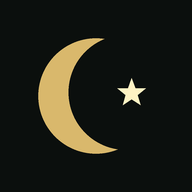
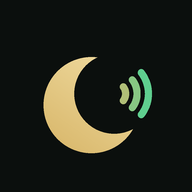
Add files via upload

Changed region(s): [[0.1875, 0.1875, 0.6875, 0.8125], [0.5938, 0.3438, 0.8125, 0.625], [0.25, 0.6562, 0.4375, 0.8125]]

diff --git a/inapp.js b/inapp.js
@@ -1,0 +1,219 @@
+/* =====================================================================
+   inapp.js — كل حاجة بتفتح جوه التطبيق (من غير ما تخرج لكروم/يوتيوب)
+   ===================================================================== */
+
+/* ---------- ١) البيانات: ضيف هنا بس ---------- */
+window.INAPP = {
+  /* روابط مباشرة لدروس ملهاش رابط (بتتشغل جوه التطبيق فورًا).
+     المفتاح = عنوان الدرس زي ما هو في الموقع، والقيمة = رابط يوتيوب (watch / youtu.be / shorts / playlist) */
+  links: {
+    // 'رقائق — إياد قنيبي': 'https://www.youtube.com/watch?v=XXXXXXXXXXX',
+  },
+
+  /* فيديوهات جديدة تتضاف على الشيخ والقسم الموجودين (من غير أي تغيير في التصميم) */
+  add: [
+    // { scholar: 'إياد قنيبي', topic: 'رقائق', title: 'عنوان الفيديو', url: 'https://youtu.be/XXXXXXXXXXX', short: false },
+  ]
+};
+
+/* ---------- ٢) المنطق ---------- */
+(() => {
+  'use strict';
+  if (window.__inapp) return;          // اتحمّل قبل كده (مثلاً من sw.js وكمان من index.html)
+  window.__inapp = 1;
+  const D = window.INAPP || {};
+  const E = t => String(t == null ? '' : t).replace(/[&<>"']/g, c => ({ '&': '&amp;', '<': '&lt;', '>': '&gt;', '"': '&quot;', "'": '&#39;' }[c]));
+  const $1 = s => document.querySelector(s);
+  const T = m => { try { toast(m) } catch (e) { } };
+
+  /* --- تطبيق البيانات --- */
+  function applyData() {
+    let ch = 0;
+    (D.add || []).forEach(a => {
+      try {
+        if (!a || !a.title) return;
+        const s = DATA.scholars.find(x => x.name === a.scholar) || DATA.scholars.find(x => a.scholar && x.name.includes(a.scholar));
+        if (!s) return;
+        const p = a.url ? parse(a.url) : null;
+        let sec = s.sections.find(x => x.title === a.topic);
+        if (!sec) { sec = { title: a.topic || 'متنوع', videos: [] }; s.sections.push(sec) }
+        if (p && sec.videos.some(v => v.url && (parse(v.url) || {}).key === p.key)) return;
+        const o = { title: a.title };
+        if (a.url) o.url = a.url; else o.q = a.q || (s.name + ' ' + a.title);
+        if (a.short) o.short = true;
+        sec.videos.push(o); ch++;
+      } catch (e) { }
+    });
+    reset();
+    const L = D.links || {};
+    allVideos().forEach(v => {
+      if (v.real) return;
+      const u = L[v.key] || L[v.title] || L[v.scholar + ' | ' + v.title];
+      if (u && parse(u)) { links[v.key] = u; ch++ }
+    });
+    if (ch) reset();
+    return ch;
+  }
+
+  /* --- بحث يوتيوب جوه التطبيق (من غير ما تخرج) --- */
+  const INS = [
+    ['p', 'https://pipedapi.kavin.rocks'], ['p', 'https://pipedapi.adminforge.de'], ['p', 'https://api.piped.private.coffee'],
+    ['i', 'https://inv.nadeko.net'], ['i', 'https://invidious.nerdvpn.de'], ['i', 'https://yewtu.be']
+  ];
+  const cache = new Map();
+  const tmo = (u, ms) => { const c = new AbortController(), t = setTimeout(() => c.abort(), ms); return fetch(u, { signal: c.signal }).finally(() => clearTimeout(t)) };
+  function search(q) {
+    q = String(q || '').trim();
+    if (cache.has(q)) return Promise.resolve(cache.get(q));
+    const enc = encodeURIComponent(q);
+    const tries = INS.map(([t, b]) =>
+      tmo(t === 'p' ? b + '/search?q=' + enc + '&filter=videos' : b + '/api/v1/search?type=video&q=' + enc, 7000)
+        .then(r => { if (!r.ok) throw new Error('http'); return r.json() })
+        .then(j => {
+          const a = t === 'p'
+            ? (j.items || []).map(x => ({ id: (String(x.url || '').match(/v=([\w-]{11})/) || [])[1], title: x.title, by: x.uploaderName, dur: x.duration }))
+            : (Array.isArray(j) ? j : []).map(x => ({ id: x.videoId, title: x.title, by: x.author, dur: x.lengthSeconds }));
+          const r = a.filter(x => x.id && x.title).slice(0, 15);
+          if (!r.length) throw new Error('empty');
+          return r;
+        }));
+    const any = Promise.any ? Promise.any(tries) : Promise.race(tries);
+    return any.then(r => { cache.set(q, r); return r });
+  }
+  const fmt = s => { s = +s; if (!s || s < 0) return ''; const m = Math.floor(s / 60), x = s % 60; return m + ':' + String(x).padStart(2, '0') };
+
+  /* --- اللوحة --- */
+  function panel() {
+    let d = document.getElementById('xin');
+    if (!d) { d = document.createElement('div'); d.id = 'xin'; d.className = 'xs'; d.onclick = e => { if (e.target === d) d.classList.remove('on') }; document.body.appendChild(d) }
+    return d;
+  }
+  if (!document.getElementById('xin-css')) {
+    const st = document.createElement('style'); st.id = 'xin-css';
+    st.textContent = `
+/* ===== حركة اللوحات (bottom sheets): بدل التكبير ١٫٥× القديم → طلوع ناعم + تعتيم الخلفية ===== */
+@keyframes xsUp{from{transform:translate3d(0,36px,0);opacity:0}to{transform:none;opacity:1}}
+@keyframes xsFade{from{opacity:0}to{opacity:1}}
+@keyframes xsRow{from{transform:translate3d(0,12px,0);opacity:0}to{transform:none;opacity:1}}
+@keyframes xsShim{to{background-position:-200% 0}}
+.xs.on{animation:xsFade var(--fast,180ms) ease-out both}
+.xs.on .in{animation:xsUp var(--base,320ms) var(--ease,cubic-bezier(.22,.8,.3,1)) both;will-change:transform,opacity;overscroll-behavior:contain}
+/* ===== نتايج البحث ===== */
+.ixr{display:flex;flex-direction:column;gap:8px;margin:10px 0}
+.ixr .ir{display:flex;gap:10px;align-items:center;background:var(--card);border:1px solid var(--line);border-radius:14px;padding:8px;cursor:pointer;
+  animation:xsRow var(--base,320ms) var(--ease,cubic-bezier(.22,.8,.3,1)) both;animation-delay:calc(var(--i,0)*45ms);
+  transition:transform var(--fast,180ms) var(--ease,ease),border-color var(--fast,180ms)}
+.ixr .ir:active{transform:scale(.98);border-color:var(--gold)}
+@media (hover:hover){.ixr .ir:hover{border-color:var(--gold)}}
+.ixr .ir .tm{position:relative;width:112px;aspect-ratio:16/9;flex:none;border-radius:10px;overflow:hidden;background:#18231f}
+.ixr .ir img{position:absolute;inset:0;width:100%;height:100%;object-fit:cover;opacity:0;transition:opacity .35s ease}
+.ixr .ir img.ok{opacity:1}
+.ixr .ir b{font-size:13px;line-height:1.6;display:block}
+.ixr .ir small{color:var(--mut)}
+.ixr .ld{text-align:center;color:var(--mut);padding:18px;animation:xsRow var(--base,320ms) ease both}
+.ixr .sk{height:64px;border-radius:14px;border:1px solid var(--line);
+  background:linear-gradient(90deg,var(--card) 25%,#1d2823 50%,var(--card) 75%);background-size:200% 100%;animation:xsShim 1.3s linear infinite}
+.ixs{animation:xsRow var(--base,320ms) var(--ease,ease) both}
+@media (prefers-reduced-motion:reduce){.xs.on,.xs.on .in,.ixr .ir,.ixr .sk,.ixs{animation:none!important}.ixr .ir img{transition:none}}
+`;
+    document.head.appendChild(st);
+  }
+
+  const SK = '<div class="sk"></div><div class="sk"></div><div class="sk"></div>';
+
+  /* يفتح لوحة النتائج. onPick(id) بتتنفذ لما المستخدم يختار */
+  function openSearch(title, q, onPick, hint) {
+    const d = panel();
+    d.innerHTML = '<div class="in"><h3>🔎 ' + E(title) + '</h3><small style="color:var(--mut)">' + E(hint || 'اختار الفيديو وهيتشغّل جوه التطبيق') + '</small>' +
+      '<input id="ixq" placeholder="عدّل البحث لو حبيت" value="' + E(q) + '"><button class="g" id="ixb">ابحث</button>' +
+      '<div class="ixr" id="ixr">' + SK + '</div>' +
+      '<small style="color:var(--mut)">أو ألصق رابط الفيديو:</small><input id="ixl" placeholder="https://youtu.be/…"><button class="g" id="ixo">▶ شغّل الرابط</button></div>';
+    d.classList.add('on');
+    let seq = 0;
+    const run = () => {
+      const qq = d.querySelector('#ixq').value.trim(), box = d.querySelector('#ixr'), my = ++seq;
+      if (!qq) return;
+      box.innerHTML = SK;
+      search(qq).then(L => {
+        if (my !== seq) return;
+        box.innerHTML = L.map((x, n) => '<div class="ir" tabindex="0" role="button" style="--i:' + Math.min(n, 8) + '" data-id="' + E(x.id) + '" data-t="' + E(x.title) + '" data-b="' + E(x.by || '') + '"><div class="tm"><img loading="lazy" alt="" src="https://i.ytimg.com/vi/' + E(x.id) + '/mqdefault.jpg" onload="this.classList.add(\'ok\')" onerror="this.remove()"></div><div><b>' + E(x.title) + '</b><small>' + E(x.by || '') + (x.dur ? ' · ' + fmt(x.dur) : '') + '</small></div></div>').join('');
+      }).catch(() => {
+        if (my !== seq) return;
+        box.innerHTML = '<div class="ld">البحث المباشر مش متاح دلوقتي (مشكلة في النت أو الخدمة).<br>ألصق رابط الفيديو في الخانة اللي تحت وهيتشغّل جوه التطبيق.</div>';
+      });
+    };
+    d.querySelector('#ixb').onclick = run;
+    d.querySelector('#ixq').onkeydown = e => { if (e.key === 'Enter') run() };
+    d.querySelector('#ixr').onclick = e => { const r = e.target.closest('.ir'); if (r) { d.classList.remove('on'); onPick(r.dataset.id, r.dataset.t, r.dataset.b) } };
+    d.querySelector('#ixr').onkeydown = e => { if (e.key === 'Enter') { const r = e.target.closest('.ir'); if (r) r.click() } };
+    d.querySelector('#ixo').onclick = () => {
+      const p = parse(d.querySelector('#ixl').value);
+      if (!p || p.kind !== 'v') return T('الرابط مش صحيح');
+      d.classList.remove('on'); onPick(p.id, '', '');
+    };
+    run();
+  }
+
+  /* --- درس ملوش رابط → بحث جوه التطبيق وبعدين يتحفظ كرابط --- */
+  const prevOpen = window.openP;
+  window.openP = function (k) {
+    const v = byKey(k);
+    if (!v || v.real) return prevOpen.apply(this, arguments);
+    const dd = document.getElementById('xq2'); if (dd) dd.classList.remove('on');
+    openSearch(v.title, (v.q || (v.scholar + ' ' + v.title)), id => {
+      links[k] = 'https://youtu.be/' + id; ls.set('links', links);
+      reset(); try { render() } catch (e) { }
+      prevOpen.call(window, k);
+    }, 'اختار الفيديو المناسب، وهيتحفظ للدرس ده وبعدها يتشغّل جوه التطبيق على طول');
+  };
+
+  /* --- تشغيل نتيجة بحث حرّة (من استكشاف) --- */
+  function playFree(id, title, by) {
+    const key = 'x:' + id, a = allVideos();
+    if (!a.some(x => x.key === key)) a.push({ key, kind: 'v', id, title: title || 'فيديو', scholar: by || 'نتيجة بحث', topic: 'بحث', short: false, g: 0, si: 0, q: '', real: true, ord: 99999, tmp: true });
+    prevOpen.call(window, key);
+  }
+  const CP = window.closePlayer;
+  window.closePlayer = function () { try { if (_all) _all = _all.filter(x => !x.tmp) } catch (e) { } return CP.apply(this, arguments) };
+  const TS = window.tgSave;
+  window.tgSave = function (k) { if (String(k).startsWith('x:')) return T('ده فيديو من البحث، مش بيتحفظ'); return TS.apply(this, arguments) };
+
+  /* --- استكشاف: زرار "دوّر جوه التطبيق" لما تكتب بحث --- */
+  const R = window.render;
+  window.render = function () {
+    const r = R.apply(this, arguments);
+    try {
+      const A = document.getElementById('app');
+      if (A && tab === 'explore' && query && !A.querySelector('.ixs')) {
+        const b = document.createElement('button');
+        b.className = 'more ixs';
+        b.textContent = '🔎 دوّر على «' + query + '» في يوتيوب (جوه التطبيق)';
+        b.onclick = () => openSearch('«' + query + '»', query, playFree, 'اختار أي فيديو وهيتشغّل جوه التطبيق');
+        const anchor = A.querySelector('.grid') || A.querySelector('.empty');
+        if (anchor) anchor.before(b); else A.appendChild(b);
+      }
+      if (A && tab === 'more' && !A.querySelector('.ixi')) {
+        const rows = [...A.querySelectorAll('button.row')];
+        if (!rows.some(x => /نزّل التطبيق/.test(x.textContent))) {
+          const b = document.createElement('button'); b.className = 'row ixi'; b.textContent = '⬇ نزّل التطبيق';
+          b.onclick = installApp;
+          (rows[0] ? rows[0].parentNode : A).appendChild(b);
+        }
+      }
+    } catch (e) { }
+    return r;
+  };
+
+  /* --- التنزيل من كروم --- */
+  function installApp() {
+    if (window.matchMedia('(display-mode: standalone)').matches) return T('التطبيق منزّل بالفعل ✅');
+    if (typeof dp !== 'undefined' && dp) return doInstall();
+    T('من قائمة كروم ⋮ اختار «تثبيت التطبيق» أو «إضافة إلى الشاشة الرئيسية»');
+  }
+  window.installApp = installApp;
+  addEventListener('appinstalled', () => { T('اتنزّل التطبيق ✅'); try { render() } catch (e) { } });
+
+  /* --- ابدأ --- */
+  try { if (applyData()) render() } catch (e) { console.error('inapp', e) }
+  setTimeout(() => { try { render() } catch (e) { } }, 2400);
+})();

diff --git a/brand.css b/brand.css
@@ -1,0 +1,41 @@
+/* ==========================================================================
+   brand.css — لوجو «اسمع دين · esma3 Deen» + ضبط الحركة والجرافيك
+   (بيتحمّل تلقائي من sw.js، ومفيش حاجة في index.html بتتغيّر)
+   ========================================================================== */
+
+/* ---------- ١) اللوجو (هيدر) ---------- */
+.logo.bl,.top .logo.bl{display:inline-flex;align-items:center;gap:9px;font-size:0;line-height:1;white-space:nowrap;
+  background:none!important;-webkit-background-clip:border-box!important;background-clip:border-box!important;color:inherit!important;animation:none!important}
+.logo.bl .bmk{width:36px;height:36px;flex:none;overflow:visible;filter:drop-shadow(0 2px 8px #d9b86c33)}
+.logo.bl .bt{display:flex;flex-direction:column;align-items:center;gap:3px}
+.logo.bl .bt b{font:700 25px/1.05 Amiri,"Noto Naskh Arabic",serif;
+  background:linear-gradient(90deg,#d9b86c,#fff3c4 45%,#d9b86c);-webkit-background-clip:text;background-clip:text;color:transparent}
+.logo.bl .bt small{font:700 9.5px/1 system-ui,-apple-system,"Segoe UI",sans-serif;letter-spacing:.34em;margin-inline-end:-.34em;direction:ltr;color:#8fa39b}
+
+/* ---------- ٢) السبلاتش: حركة متسلسلة احترافية ---------- */
+#splash:has(.logo:not(.bl)) .logo:not(.bl){opacity:0}        /* ما يظهرش الشكل القديم لحظة التحميل */
+@keyframes bSp{0%,70%{opacity:1;transform:none}100%{opacity:0;transform:scale(1.05);visibility:hidden}}
+@keyframes bcIn{from{opacity:0;transform:scale(.55) rotate(-24deg)}to{opacity:1;transform:none}}
+@keyframes bwIn{from{opacity:1;stroke-dasharray:1;stroke-dashoffset:1}to{opacity:1;stroke-dasharray:1;stroke-dashoffset:0}}
+@keyframes bUp{from{opacity:0;transform:translate3d(0,14px,0)}to{opacity:1;transform:none}}
+@keyframes bLt{from{opacity:0;letter-spacing:.9em}to{opacity:1;letter-spacing:.5em}}
+@keyframes bGlow{0%,100%{opacity:.0}50%{opacity:.55}}
+#splash{animation:bSp 2.4s cubic-bezier(.4,0,.2,1) forwards!important;background:radial-gradient(60% 45% at 50% 46%,#16221d 0%,var(--bg) 70%)}
+#splash .logo.bl{flex-direction:column;gap:16px;position:relative}
+#splash .logo.bl::before{content:"";position:absolute;width:220px;height:220px;top:-34px;left:50%;margin-left:-110px;border-radius:50%;
+  background:radial-gradient(circle,#d9b86c40,transparent 68%);animation:bGlow 2.2s ease-in-out .3s 1 both;pointer-events:none}
+#splash .bmk{width:118px;height:118px;position:relative}
+#splash .bc{transform-box:fill-box;transform-origin:center;animation:bcIn .75s cubic-bezier(.34,1.4,.5,1) both}
+#splash .bw{animation:bwIn .5s cubic-bezier(.3,.7,.3,1) both}
+#splash .bw1{animation-delay:.5s}#splash .bw2{animation-delay:.65s}#splash .bw3{animation-delay:.8s}
+#splash .bt b{font-size:48px;animation:bUp .6s cubic-bezier(.22,.8,.3,1) .6s both}
+#splash .bt small{font-size:13px;animation:bLt .9s cubic-bezier(.22,.8,.3,1) .9s both}
+
+/* ---------- ٣) ضبط الحركة: وقف اللفّات اللانهائية اللي بتجهد الموبايل ---------- */
+.th .pl,.hero .pl,.pcard .h,.dk button{animation-iteration-count:3!important}
+.stories .ring:not(.seen):not(.fav),#me .pf,.pcard .r,.pav{animation-iteration-count:2!important}
+html,body{overscroll-behavior-y:none}                       /* منع سحب-للتحديث بالغلط في وضع التطبيق */
+.nav button{position:relative}
+.nav button.on::before{content:"";position:absolute;top:0;left:50%;width:26px;height:3px;margin-left:-13px;border-radius:0 0 6px 6px;
+  background:linear-gradient(90deg,#d9b86c,#5fcf8f)}
+@media (prefers-reduced-motion:reduce){#splash,#splash *{animation:none!important}}

diff --git a/sw.js b/sw.js
@@ -1,7 +1,9 @@
-/* sw.js — تنزيل من كروم + شغل أوفلاين + يضيف inapp.js لـ index.html تلقائي (من غير ما تعدّل index.html) */
-const V = 'deen-v5';
-const CORE = ['./', 'index.html', 'quran.html', 'manifest.webmanifest', 'icon-192.png', 'icon-512.png', 'icon-maskable-512.png', 'inapp.js', 'extra-data.js', 'images.js'];
-const TAG = '<script src="inapp.js"></script>';
+/* sw.js — تنزيل من كروم + شغل أوفلاين + يحمّل الإضافات (inapp / brand) لوحده من غير ما تعدّل index.html */
+const V = 'deen-v6';
+const CORE = ['./', 'index.html', 'quran.html', 'manifest.webmanifest', 'icon-192.png', 'icon-512.png', 'icon-maskable-512.png',
+  'inapp.js', 'brand.js', 'brand.css', 'logo-mark.svg', 'extra-data.js', 'images.js'];
+const HEAD = '<link rel="stylesheet" href="brand.css"><script src="brand.js"></script>';
+const TAIL = '<script src="inapp.js"></script>';
 
 self.addEventListener('install', e => {
   self.skipWaiting();
@@ -14,13 +16,14 @@ self.addEventListener('activate', e => {
   );
 });
 
-/* يجيب الصفحة الرئيسية ويضيف سطر inapp.js قبل </body> (لو مش موجود) */
+/* يجيب الصفحة الرئيسية ويضيف الملفات اللي ناقصة (لو أنت ضفتها بإيدك مش هيكررها) */
 async function mainPage(r) {
   const res = await fetch(r);
   if (!res.ok || !(res.headers.get('content-type') || '').includes('text/html')) return res;
-  const t = await res.text();
-  const body = (t.includes('inapp.js') || !t.includes('</body>')) ? t : t.replace('</body>', TAG + '\n</body>');
-  return new Response(body, { status: res.status, statusText: res.statusText, headers: { 'Content-Type': 'text/html; charset=utf-8' } });
+  let t = await res.text();
+  if (!t.includes('brand.css') && t.includes('</head>')) t = t.replace('</head>', HEAD + '\n</head>');
+  if (!t.includes('inapp.js') && t.includes('</body>')) t = t.replace('</body>', TAIL + '\n</body>');
+  return new Response(t, { status: res.status, statusText: res.statusText, headers: { 'Content-Type': 'text/html; charset=utf-8' } });
 }
 
 self.addEventListener('fetch', e => {

diff --git a/brand.js b/brand.js
@@ -1,0 +1,32 @@
+/* brand.js — يبني لوجو «اسمع دين · esma3 Deen» مكان النص القديم (سبلاتش + الهيدر) */
+(function () {
+  'use strict';
+  if (window.__brand) return;
+  window.__brand = 1;
+  let n = 0;
+  const WAVES = [['M40.94 24.92A5 5 0 0 1 40.94 31.08', '#b0c078'], ['M44.88 21.84A10 10 0 0 1 44.88 34.16', '#88c783'], ['M48.82 18.77A15 15 0 0 1 48.82 37.23', '#5fcf8f']];
+  function mark() {
+    const i = ++n;
+    return '<svg class="bmk" viewBox="0 0 64 64" aria-hidden="true" focusable="false"><defs>' +
+      '<linearGradient id="bg' + i + '" x1="0" y1="1" x2="1" y2="0"><stop offset="0" stop-color="#d9b86c"/><stop offset="1" stop-color="#fff3c4"/></linearGradient>' +
+      '<mask id="bk' + i + '"><rect width="64" height="64" fill="#fff"/><circle cx="37" cy="28" r="17.5" fill="#000"/></mask></defs>' +
+      '<g transform="translate(3 0)"><circle class="bc" cx="27" cy="33" r="21" fill="url(#bg' + i + ')" mask="url(#bk' + i + ')"/>' +
+      '<g fill="none" stroke-width="3" stroke-linecap="round">' +
+      WAVES.map((w, k) => '<path class="bw bw' + (k + 1) + '" pathLength="1" d="' + w[0] + '" stroke="' + w[1] + '"/>').join('') +
+      '</g></g></svg>';
+  }
+  function build(el) {
+    el.classList.add('bl');
+    el.setAttribute('role', 'img');
+    el.setAttribute('aria-label', 'اسمع دين');
+    el.innerHTML = mark() + '<span class="bt"><b>اسمع دين</b><small>esma3 Deen</small></span>';
+  }
+  function scan() {
+    const L = document.querySelectorAll('.logo:not(.bl)');
+    for (let i = 0; i < L.length; i++) if (L[i].textContent.trim() === 'اسمع دين') build(L[i]);
+  }
+  /* بيشتغل من أول ما العنصر يتعمل (السبلاتش) ومع كل إعادة رسم للهيدر */
+  new MutationObserver(scan).observe(document.documentElement, { childList: true, subtree: true });
+  scan();
+  document.addEventListener('DOMContentLoaded', scan);
+})();
